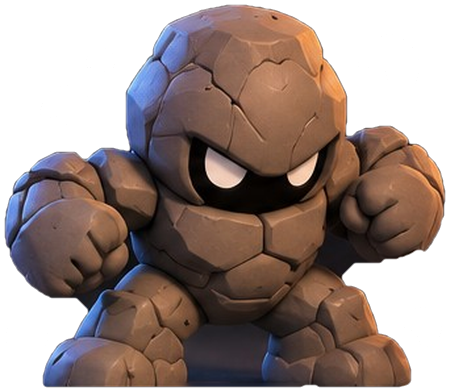
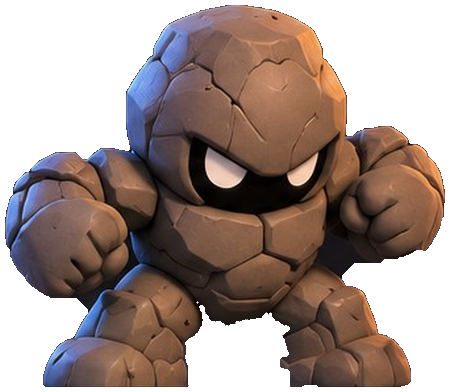
Avatare: Schatten-Reste zwischen den Beinen (Golem, Schatten) entfernt
Claude-Session: https://claude.ai/code/session_01XuEgEKXH5CVDx1qfGUkAmV

diff --git a/public/sw.js b/public/sw.js
@@ -1,7 +1,7 @@
 'use strict';
 /* UNKNOWN – Service Worker: App-Hülle und Bilder offline zwischenspeichern.
    Spielstand läuft ausschließlich über WebSocket und wird nie gecacht. */
-const VERSION = 'unknown-v55';
+const VERSION = 'unknown-v56';
 const SHELL = ['/', '/css/style.css', '/js/app.js', '/data/sets.json', '/data/avatars.json', '/manifest.webmanifest', '/assets/logo.png'];
 
 self.addEventListener('install', (e) => {
